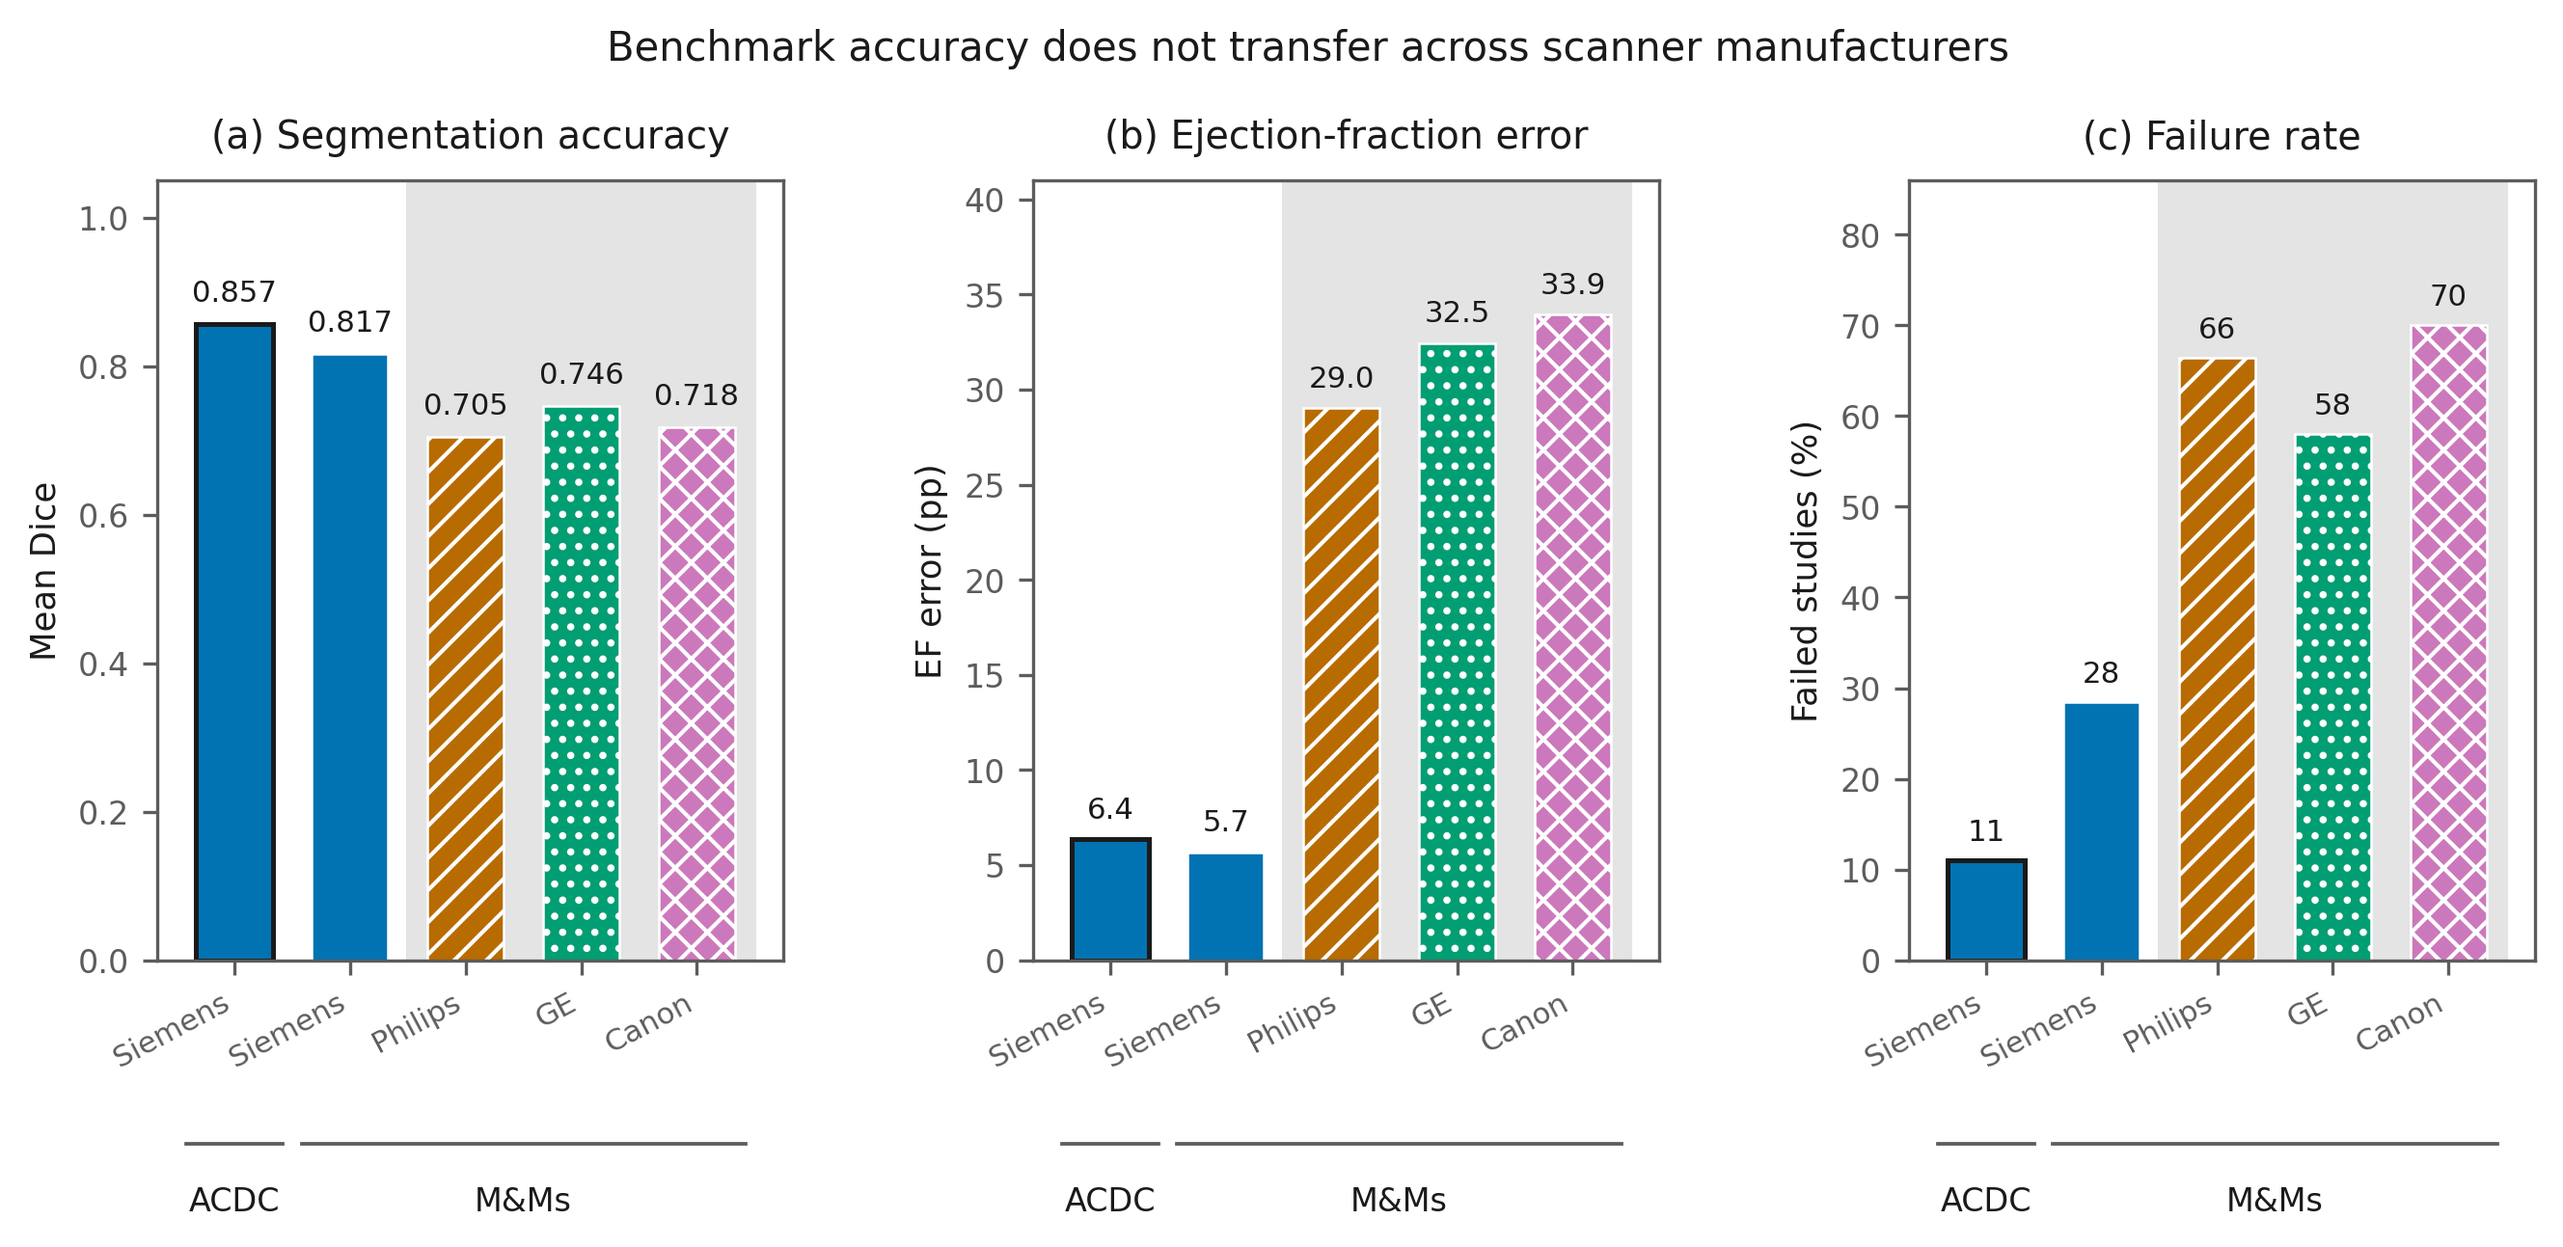
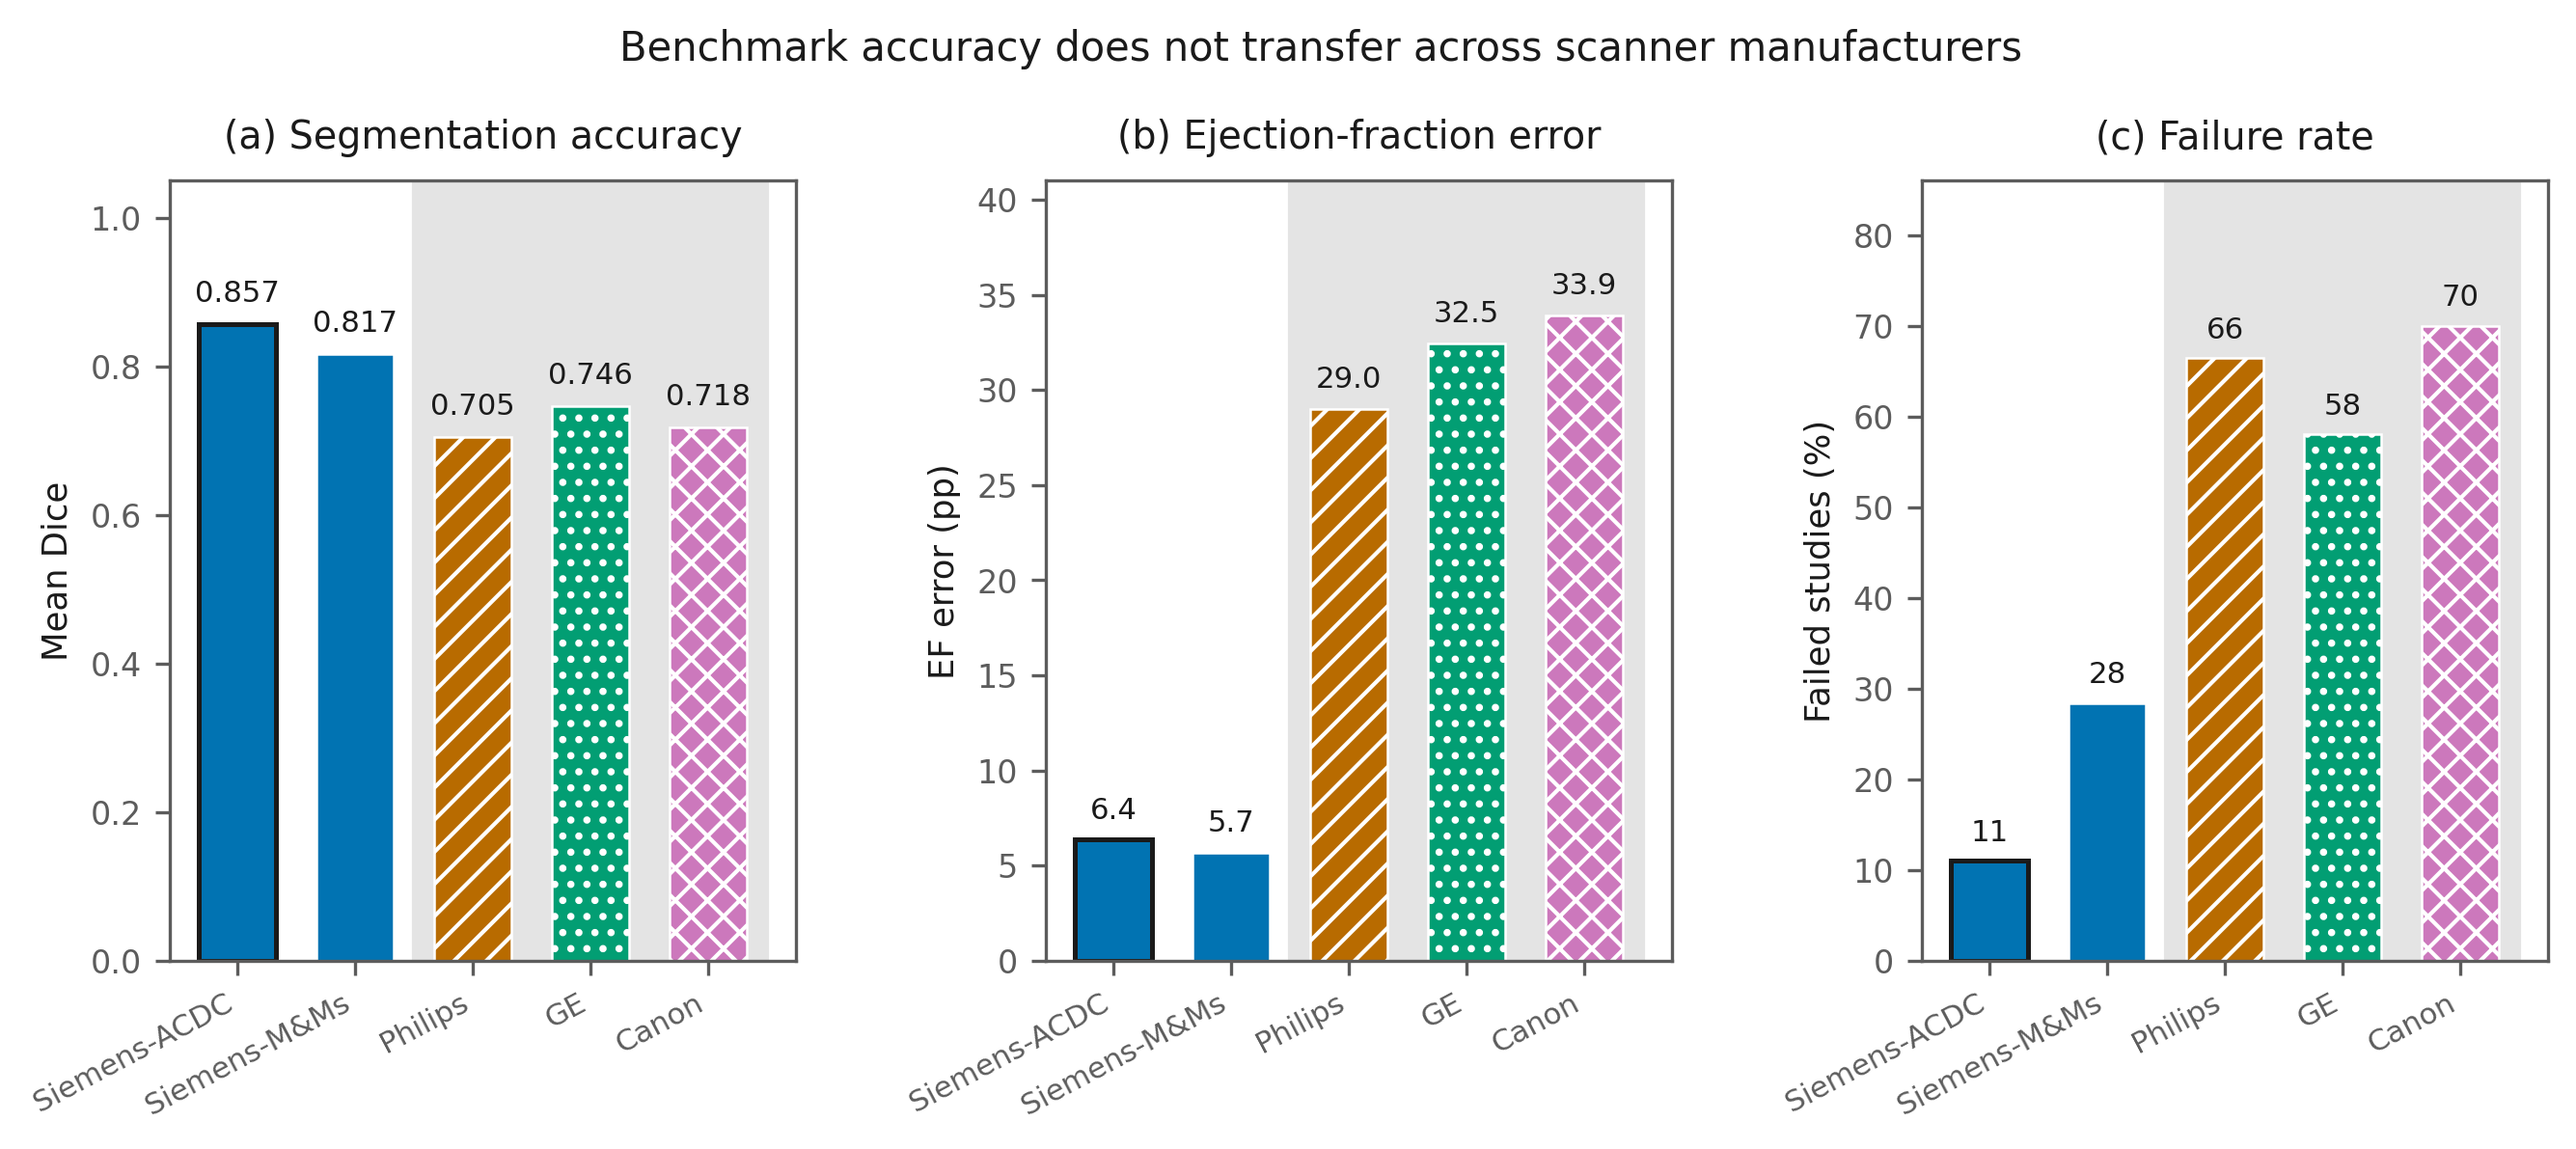
Fig. 1: label the first two bars Siemens-ACDC and Siemens-M&Ms; drop the dataset brackets
The two Siemens bars share a colour because they are the same manufacturer; the dataset now
lives in the tick label. This keeps the axis a pure manufacturer axis and makes the key
comparison -- same scanner, different hospital (6.4 -> 5.7 pp) versus a new scanner
(-> 33.9 pp) -- readable at a glance.

diff --git a/src/make_figures.py b/src/make_figures.py
@@ -72,9 +72,9 @@ def fig1_vendor():
     dev, ext = cohorts()
     groups = [dev, ext[ext.vendor == "Siemens"]] + [ext[ext.vendor == v]
                                                     for v in ["Philips", "GE", "Canon"]]
-    # ACDC is itself a Siemens cohort, so it carries the Siemens colour. The two group
-    # brackets below the axis say which dataset each bar comes from.
-    labels = ["Siemens", "Siemens", "Philips", "GE", "Canon"]
+    # ACDC is itself a Siemens cohort, so the first two bars share the Siemens colour and the
+    # dataset is carried in the tick label.
+    labels = ["Siemens-ACDC", "Siemens-M&Ms", "Philips", "GE", "Canon"]
     cols = [COL["Siemens"], COL["Siemens"], COL["Philips"], COL["GE"], COL["Canon"]]
     hats = ["", "", HATCH["Philips"], HATCH["GE"], HATCH["Canon"]]
     x = np.arange(5)
@@ -92,12 +92,6 @@ def fig1_vendor():
         ax.set_xticklabels(labels, fontsize=7.4, rotation=28, ha="right")
         ax.set_ylim(0, ymax); ax.set_ylabel(ylabel, fontsize=8.5)
         ax.set_title(title, fontsize=9.5, pad=8)
-        # dataset brackets under the axis
-        for x0, x1, lab in [(-0.42, 0.42, "ACDC"), (0.58, 4.42, "M&Ms")]:
-            ax.plot([x0, x1], [-0.235 * ymax] * 2, color=MUTED, lw=0.9,
-                    clip_on=False, zorder=3)
-            ax.text((x0 + x1) / 2, -0.29 * ymax, lab, ha="center", va="top",
-                    fontsize=8, color=INK, clip_on=False)
 
     panel(axes[0], [g[["dice_RV", "dice_Myo", "dice_LV"]].mean().mean() for g in groups],
           "{:.3f}", 1.05, 0.03, "Mean Dice", "(a) Segmentation accuracy")
